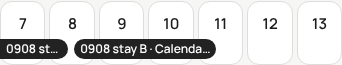
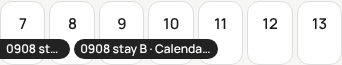
WIP 0908: drop 2 px pill margin, executor progress (unreviewed)
Claude-Session: https://claude.ai/code/session_01Cjmb7N4XSsuW9b1uf4EwNq

diff --git a/App/app/static/dashboard-calendar.css b/App/app/static/dashboard-calendar.css
@@ -761,7 +761,7 @@ body.v2 #calendar.dashboard-calendar[data-readonly="false"] .cal-week.is-dots .c
 body.v2 #calendar.dashboard-calendar[data-readonly="false"] .cal-week.is-dots .cal-day.is-selected .cal-num { color:#fff; text-decoration:none; }
 body.v2 #calendar.dashboard-calendar[data-readonly="false"][data-cleaning="false"] :is(.cal-tile-chips, .cal-dots) { display:none; }
 body.v2 #calendar.dashboard-calendar[data-readonly="false"] .cal-pills { position:absolute; inset:0; z-index:1; display:grid; grid-template-columns:repeat(14,minmax(0,1fr)); grid-template-rows:repeat(var(--pl,1),auto); align-content:end; row-gap:4px; padding-bottom:6px; box-sizing:border-box; column-gap:4px; pointer-events:none; }
-body.v2 #calendar.dashboard-calendar[data-readonly="false"] .cal-pill { grid-row:1; align-self:end; display:flex; align-items:center; gap:6px; min-width:0; height:20px; margin:0 2px 0 0; padding:0 6px; box-sizing:border-box; border-radius:10px; background:#222; color:#fff; font-size:12px; line-height:20px; font-weight:600; text-decoration:none; white-space:nowrap; overflow:hidden; pointer-events:auto; cursor:pointer; }
+body.v2 #calendar.dashboard-calendar[data-readonly="false"] .cal-pill { grid-row:1; align-self:end; display:flex; align-items:center; gap:6px; min-width:0; height:20px; margin:0; padding:0 6px; box-sizing:border-box; border-radius:10px; background:#222; color:#fff; font-size:12px; line-height:20px; font-weight:600; text-decoration:none; white-space:nowrap; overflow:hidden; pointer-events:auto; cursor:pointer; }
 body.v2 #calendar.dashboard-calendar[data-readonly="false"] .cal-pill:hover { background:#000; color:#fff; }
 body.v2 #calendar.dashboard-calendar[data-readonly="false"] .cal-pill.continues-start { margin-left:0; border-top-left-radius:0; border-bottom-left-radius:0; }
 body.v2 #calendar.dashboard-calendar[data-readonly="false"] .cal-pill.continues-end { border-top-right-radius:0; border-bottom-right-radius:0; }
@@ -795,7 +795,7 @@ body.v2 #calendar.dashboard-calendar[data-readonly="false"].has-panel .cal-to-to
   body.v2 #calendar.dashboard-calendar[data-readonly="false"] .cal-week.is-dots .cal-day-number { padding:12px; font-size:16px; line-height:20px; font-weight:600; color:#222; }
   body.v2 #calendar.dashboard-calendar[data-readonly="false"] .cal-week.is-dots .cal-day-number .cal-num { font-size:16px; }
   body.v2 #calendar.dashboard-calendar[data-readonly="false"] .cal-pills { column-gap:12px; row-gap:12px; padding-bottom:12px; }
-  body.v2 #calendar.dashboard-calendar[data-readonly="false"] .cal-pill { height:32px; margin:0 2px 0 0; padding:0 12px 0 4px; gap:8px; border-radius:16px; font-size:13px; line-height:16px; box-shadow:0 1px 2px rgba(0,0,0,.12); }
+  body.v2 #calendar.dashboard-calendar[data-readonly="false"] .cal-pill { height:32px; margin:0; padding:0 12px 0 4px; gap:8px; border-radius:16px; font-size:13px; line-height:16px; box-shadow:0 1px 2px rgba(0,0,0,.12); }
   body.v2 #calendar.dashboard-calendar[data-readonly="false"] .cal-pill.continues-start { margin-left:0; padding-left:12px; }
   body.v2 #calendar.dashboard-calendar[data-readonly="false"] .cal-pill-avatar { display:inline-flex; flex:0 0 24px; align-items:center; justify-content:center; width:24px; height:24px; border-radius:50%; background:#6a6a6a; color:#fff; font-size:12px; line-height:24px; font-weight:700; }
   body.v2 #calendar.dashboard-calendar[data-readonly="false"] .cal-pill.continues-start .cal-pill-avatar { display:none; }
